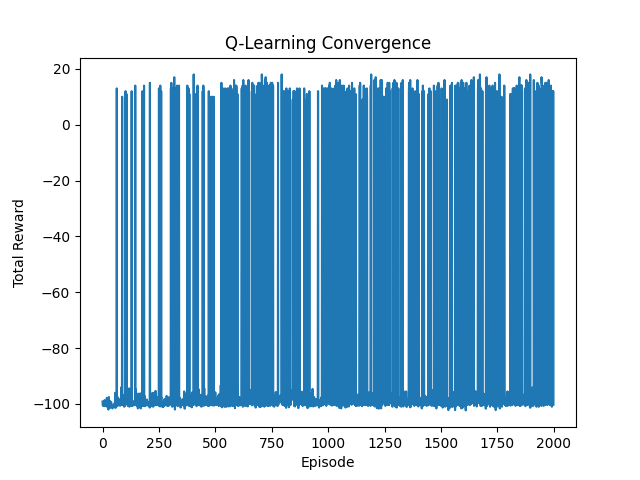
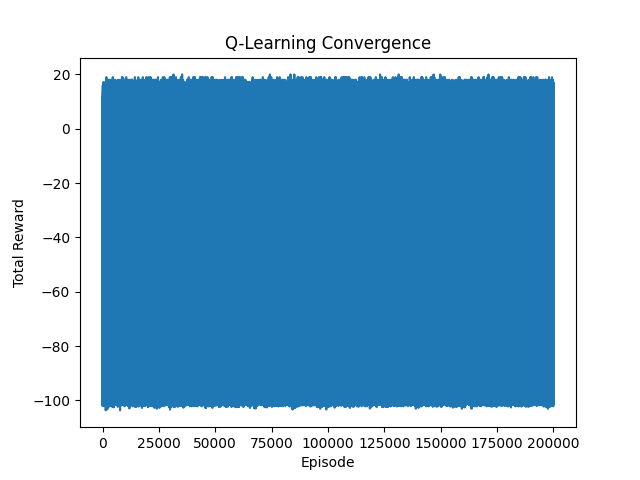
Update training parameters and add output files to .gitignore

diff --git a/test_training.py b/test_training.py
@@ -3,7 +3,7 @@ import os
 
 def test_training():
     print("Testing training...")
-    train_agent(episodes=10, save_path="data/test_q_table.npy")
+    train_agent(episodes=200000, save_path="data/test_q_table.npy")
 
     if os.path.exists("data/test_q_table.npy") and os.path.exists("data/convergence_plot.png"):
         print("Training test passed: Files created.")
